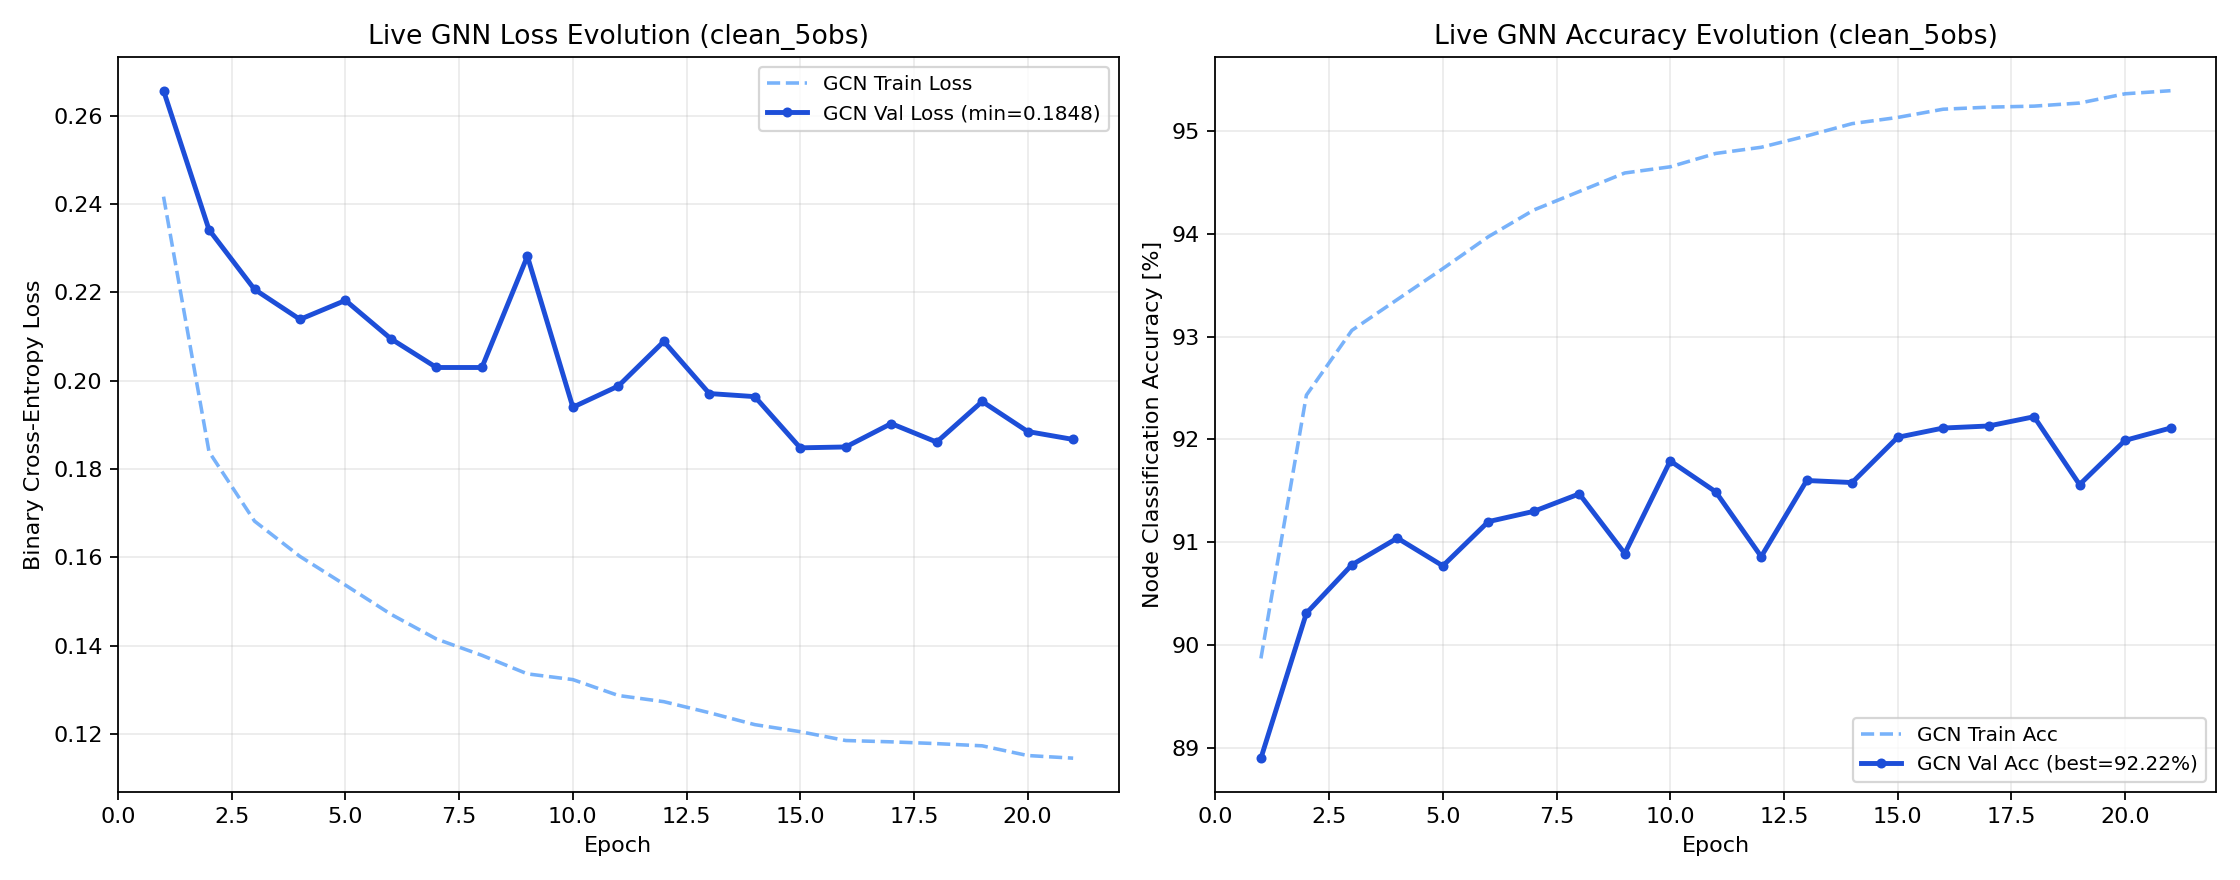
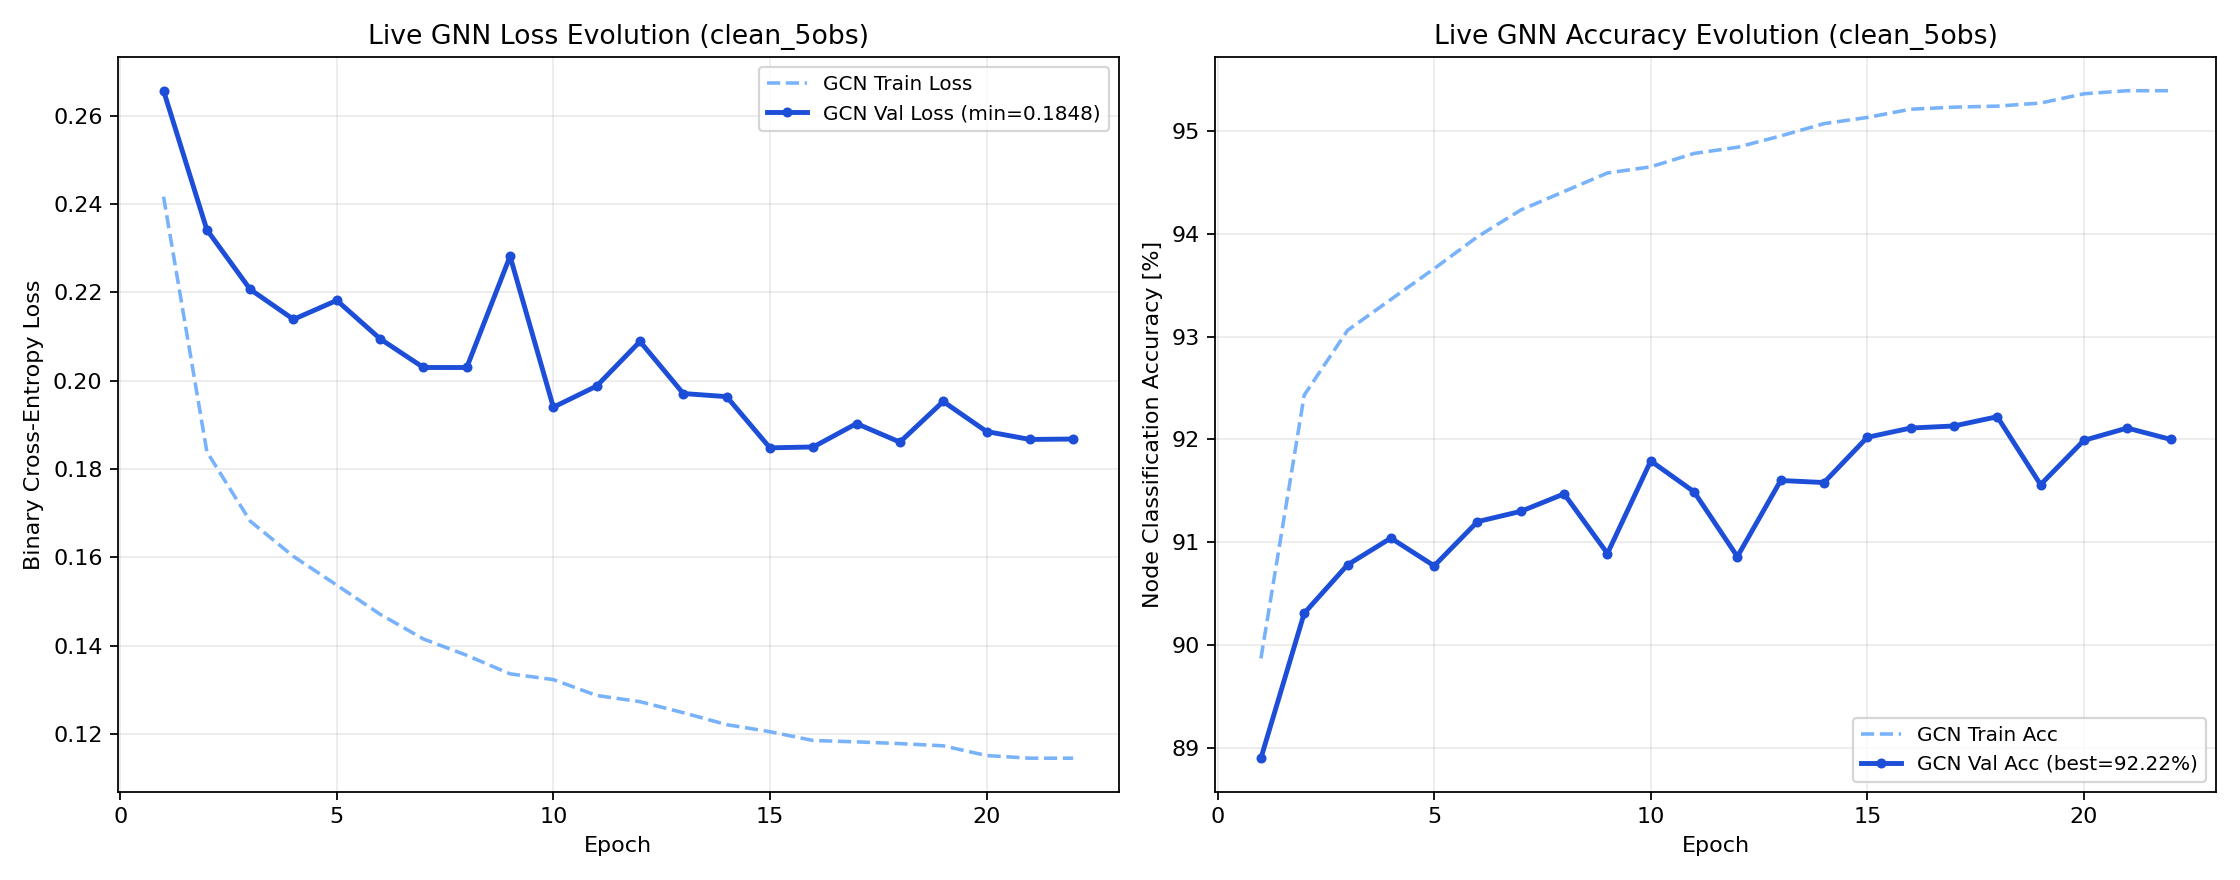
Update Study 2 live status and figures (2026-11-09 09:48)

diff --git a/LIVE_STATUS.md b/LIVE_STATUS.md
@@ -1,25 +1,25 @@
 # Live Pipeline Status on Jed
 
 ```text
-[2026-11-09 09:41:39] Study 2 Pipeline Status on Jed
+[2026-11-09 09:48:30] Study 2 Pipeline Status on Jed
 - Step 1 (Plummer ICs): 81 / 81 ready
 - Step 2 (SWIFT Runs): 81 / 81 completed (101 snapshots)
 - Step 3 (Observables): Labels=81/81 | Clean=81/81 | GaiaNoisy=81/81
 - Step 4 (5D Graphs): Clean=81/81 | GaiaNoisy=81/81
 - Step 5/6 Live GNN Training Progress:
-  * clean_5obs/training_metrics_gcn_clean.log: Ep 021 | Train 0.1145 (95.39%) | Val 0.1867 (92.11%, Best=92.22%) | Test=In progress
+  * clean_5obs/training_metrics_gcn_clean.log: Ep 022 | Train 0.1145 (95.39%) | Val 0.1868 (92.00%, Best=92.22%) | Test=In progress
 
 SLURM Queue:
 JOBID  PARTITION                   NAME   ST       TIME  NODES NODELIST(REASON)
 40998767_[0-4%   academic      Study2_Step6_4Obs   PD       0:00      2 (Dependency)
-      40998766   academic   Study2_Step5_Train81    R   17:11:49      2 jst[072,076]
+      40998766   academic   Study2_Step5_Train81    R   17:17:00      2 jst[072,076]
 ```
 
 ## Live Neural Network Training Metrics
 
 | Experiment | Architecture | Latest Epoch | Train Loss | Train Acc | Val Loss | Val Acc | Best Val Acc | Test Acc | Test F1 |
 | :--- | :---: | :---: | :---: | :---: | :---: | :---: | :---: | :---: | :---: |
-| `clean_5obs` | **GCN** | 21 | 0.1145 | 95.39% | 0.1867 | 92.11% | **92.22%** | **In progress** | - |
+| `clean_5obs` | **GCN** | 22 | 0.1145 | 95.39% | 0.1868 | 92.00% | **92.22%** | **In progress** | - |
 
 ## Real-Time GNN Learning Curves (Loss & Accuracy Evolution)
 
